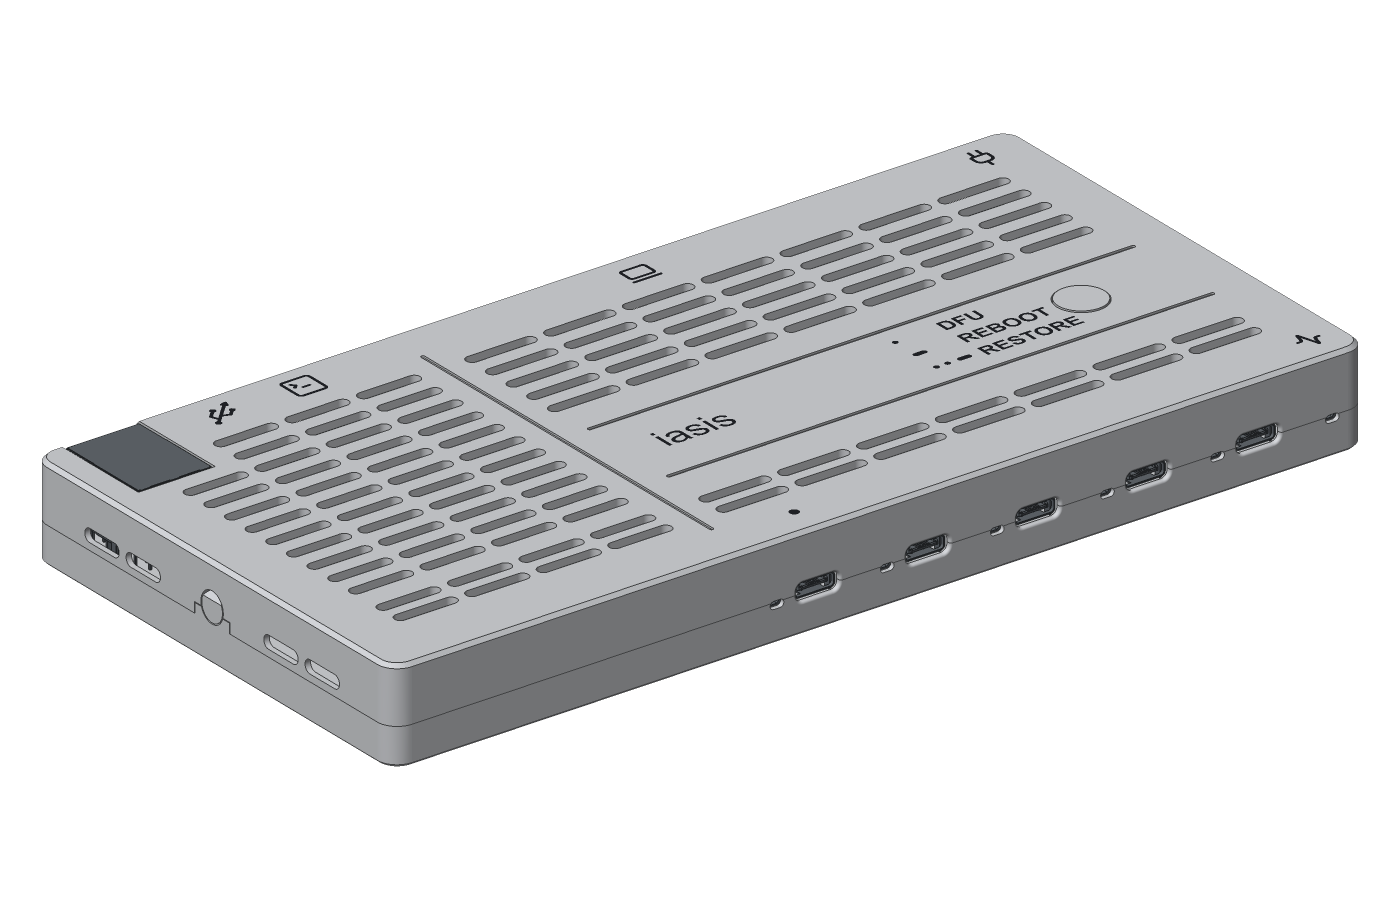
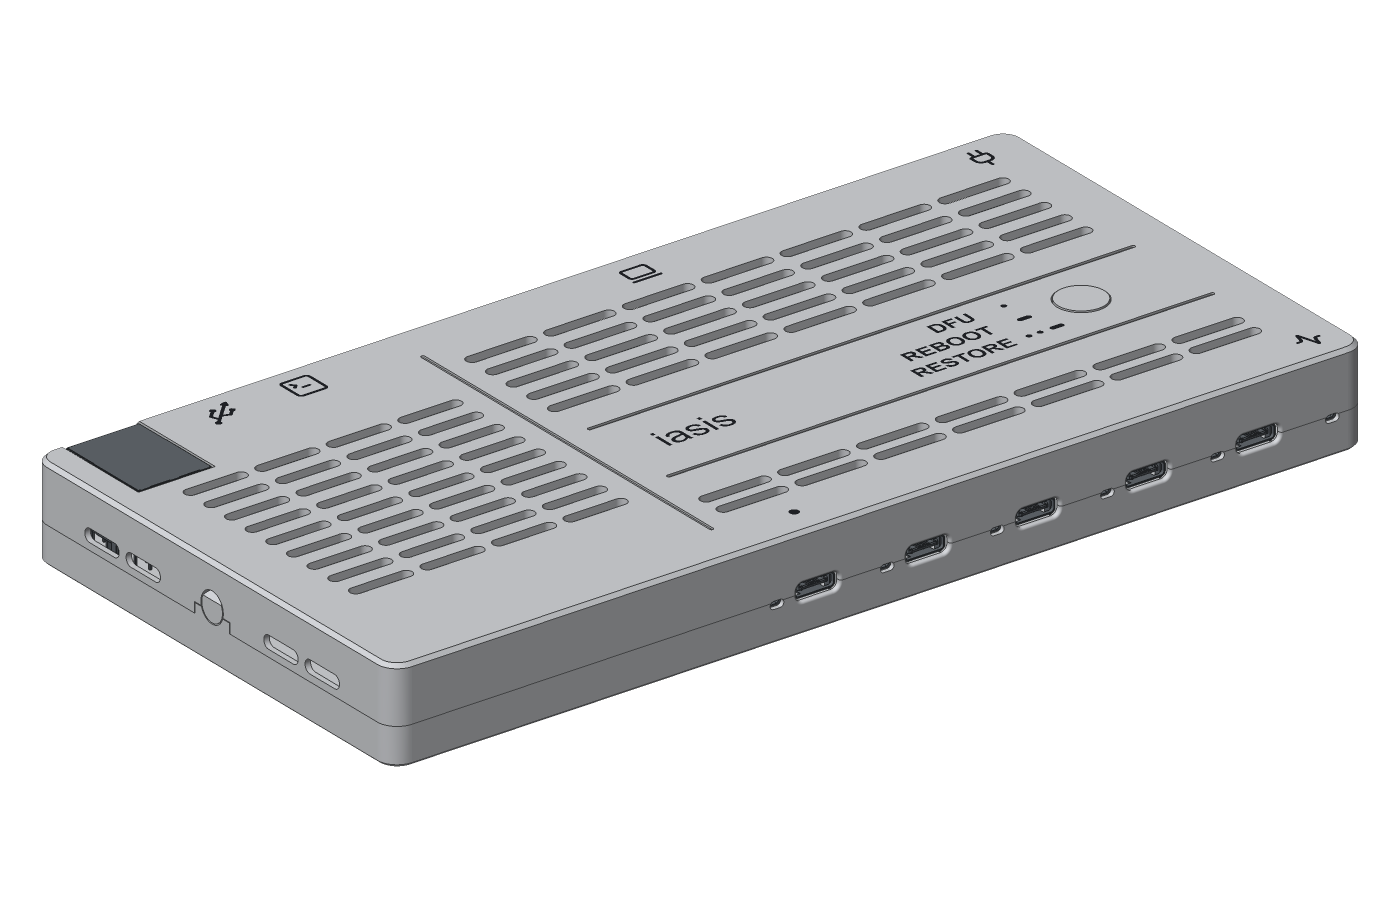
fix(case): align controls and balance CM5 vents

Changed region(s): [[0.2764, 0.56, 0.4914, 0.6844], [0.1536, 0.4044, 0.3071, 0.5289], [0.645, 0.3422, 0.7679, 0.4356]]

diff --git a/hardware/case/src/iasis_case/case.py b/hardware/case/src/iasis_case/case.py
@@ -590,17 +590,22 @@ def _artwork(lay: Layout) -> list[Sketch]:
         Pos(lay.control_left + 15, sw.Y)
         * Text(WORDMARK, font_size=WORDMARK_SIZE),
     ]
-    x = sw.X - 36
+    gesture_x = sw.X - (BUTTON_D / 2 + BUTTON_FIT) - 3 - 4.1
+    label_right = gesture_x - 4.1 - 3
     for action, y in (("DFU", sw.Y + 6), ("REBOOT", sw.Y), ("RESTORE", sw.Y - 6)):
-        marks.append(Pos(x + 10, y) * Text(
-            action, font_size=TEXT_SIZE, font_style=FontStyle.BOLD, align=(Align.MIN, Align.CENTER)
+        marks.append(Pos(label_right, y) * Text(
+            action, font_size=TEXT_SIZE, font_style=FontStyle.BOLD, align=(Align.MAX, Align.CENTER)
         ))
-        if action == "REBOOT":
-            marks.append(Pos(x + 0.9, y) * SlotOverall(3, 1.2))
+        if action == "DFU":
+            marks.append(Pos(gesture_x, y) * Circle(0.6))
+        elif action == "REBOOT":
+            marks.append(Pos(gesture_x, y) * SlotOverall(3, 1.2))
         else:
-            marks.append(Pos(x, y) * Circle(0.6))
-            if action == "RESTORE":
-                marks += [Pos(x + 2.4, y) * Circle(0.6), Pos(x + 6.1, y) * SlotOverall(3, 1.2)]
+            marks += [
+                Pos(gesture_x - 3.5, y) * Circle(0.6),
+                Pos(gesture_x - 1.1, y) * Circle(0.6),
+                Pos(gesture_x + 2.6, y) * SlotOverall(3, 1.2),
+            ]
     for ref, symbol in (("S:J401", "usb"), ("S:J501", "square-terminal")):
         if ref in lay.ports:
             marks.append(Pos(lay.board.box(ref).center().X, lay.y_rear - 7)
@@ -688,7 +693,7 @@ def _top_slots(lay: Layout, z: float, depth: float, display: Display | None) -> 
     rows = (12, 18, 24, 30, 36, -32, -37)
     left, right = -lay.length / 2 + 12, lay.length / 2 - 12
     zones = [(left, right, rows)] if lay.divider_x is None else [
-        (left, lay.divider_x - 5, (*rows, 6, 0, -6, -12, -18, -24)),
+        (left, lay.divider_x - 5, range(-24, 25, 6)),
         (lay.divider_x + 5, right, rows),
     ]
     for left, right, bands in zones:

diff --git a/hardware/case/README.md b/hardware/case/README.md
@@ -38,7 +38,7 @@ The installed package also provides `iasis-case-build`, `iasis-case-preview`, `i
 
 Use a 0.4 mm nozzle and 0.20 mm layers, without supports. Print the button in the body colour. For multicolour covers, import the cover and its matching lettering STL together as parts of one object, preserving their positions, then assign filaments. Leave the lettering out for recessed markings.
 
-Print four TPU feet separately and secure them with adhesive in the underside recesses. Each foot is 12 mm diameter × 2 mm thick, with a 0.4 mm bottom chamfer. The recesses are 12.4 mm diameter × 0.8 mm deep, leaving 1.2 mm exposed before adhesive thickness. The floor is solid; side inlets above the board and top slot bands provide ventilation. The CM5 side has additional vent rows above the cooler, separated from the hub controls by a shallow divider groove.
+Print four TPU feet separately and secure them with adhesive in the underside recesses. Each foot is 12 mm diameter × 2 mm thick, with a 0.4 mm bottom chamfer. The recesses are 12.4 mm diameter × 0.8 mm deep, leaving 1.2 mm exposed before adhesive thickness. The floor is solid; side inlets above the board and top slot bands provide ventilation. The CM5 side has a rectangular field of nine vent rows above the cooler, separated from the hub controls by a shallow divider groove.
 
 Place the board on the tray pegs, insert the button from inside the cover, and press the cover down until both end catches engage. To open, press the two round end-wall pads inward and lift the cover vertically.
 
@@ -52,7 +52,7 @@ The cooler envelope reaches 12.21 mm above the carrier board underside. The inne
 
 Verify the supplied standoffs and thermal-pad contact with the CM5 before assembly; the clearance model does not establish thermal performance. Fit the cooler's screws from below before seating the side board, then fit the side-link flex into both vertical connectors, contacts toward the gap, and close their actuators, with the cover removed.
 
-A dot marks target port 1; laptop and plug icons identify host and power. The activity icon marks the Iasis status LED. Lucide USB and terminal icons identify the CM5 accessory and service ports; Ethernet has no top label. The action labels use 4.5 mm bold type, with approximately 3.3 mm capital height. The three button rows use text with gesture marks:
+A dot marks target port 1; laptop and plug icons identify host and power. The activity icon marks the Iasis status LED. Lucide USB and terminal icons identify the CM5 accessory and service ports; Ethernet has no top label. The action labels use 4.5 mm bold type, with approximately 3.3 mm capital height. The three button rows have right-aligned text and centred gesture marks beside the button:
 
 | Mark               | Gesture               | Action                   |
 | ------------------ | --------------------- | ------------------------ |
